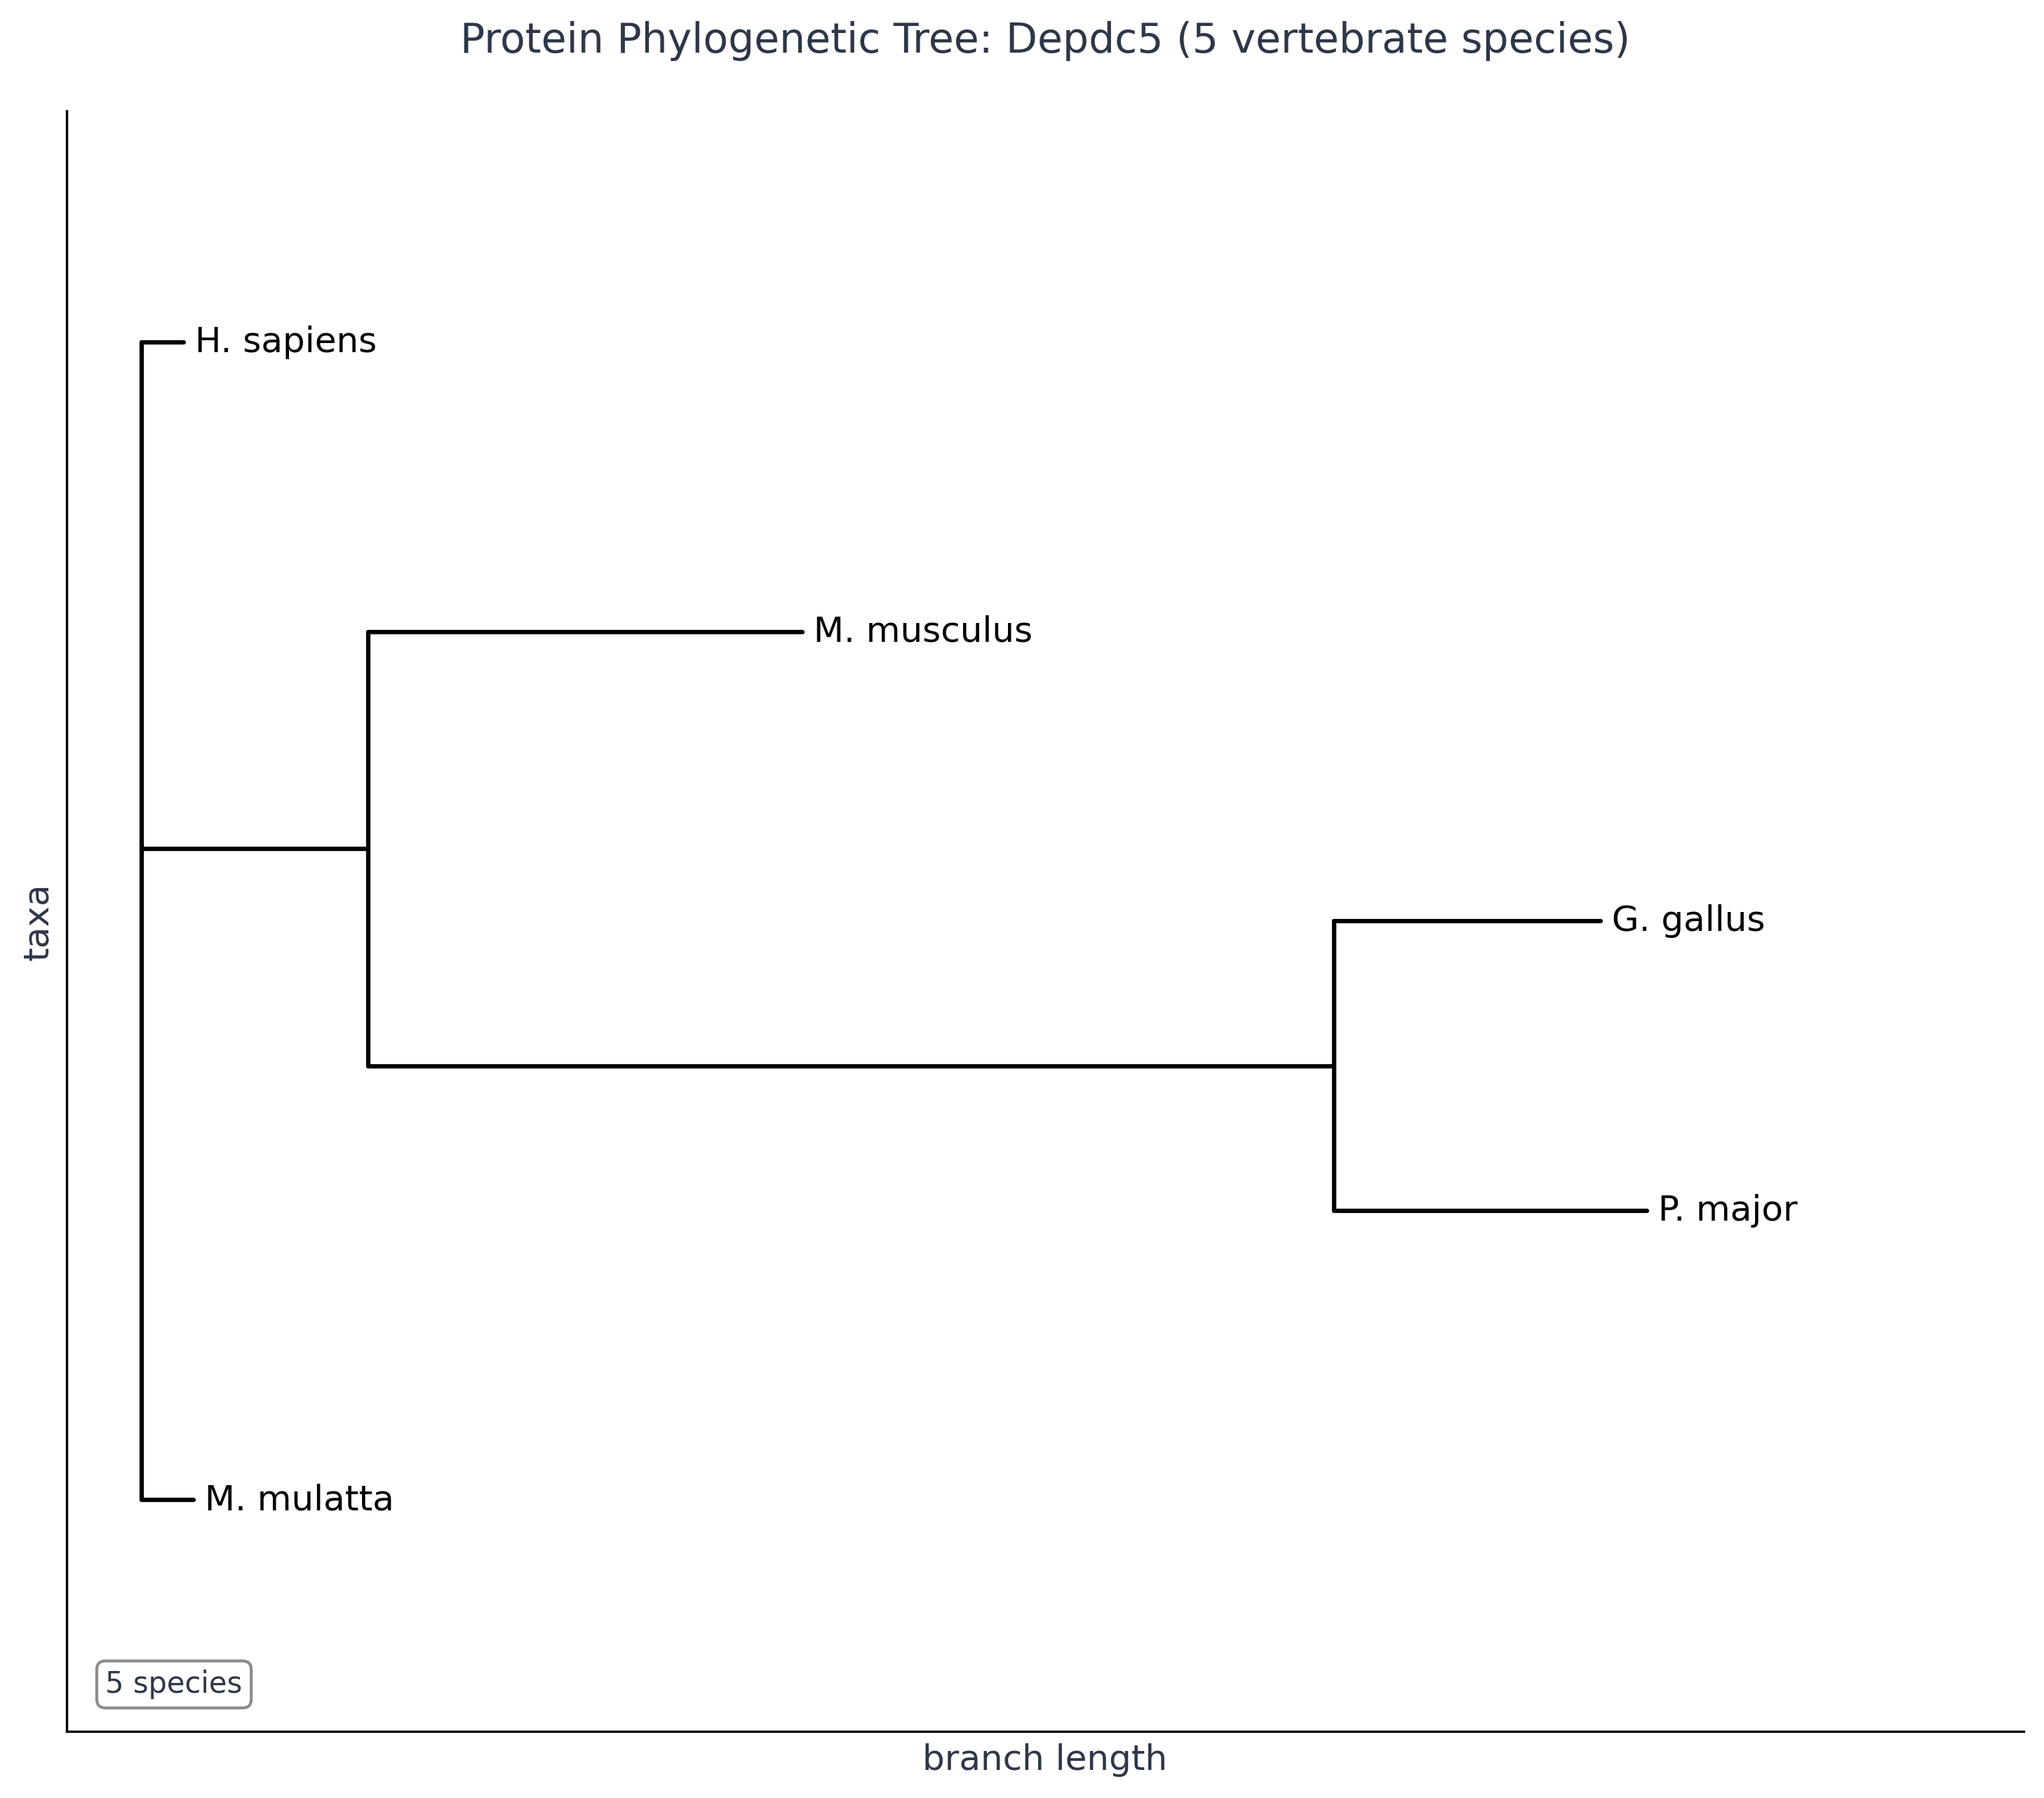
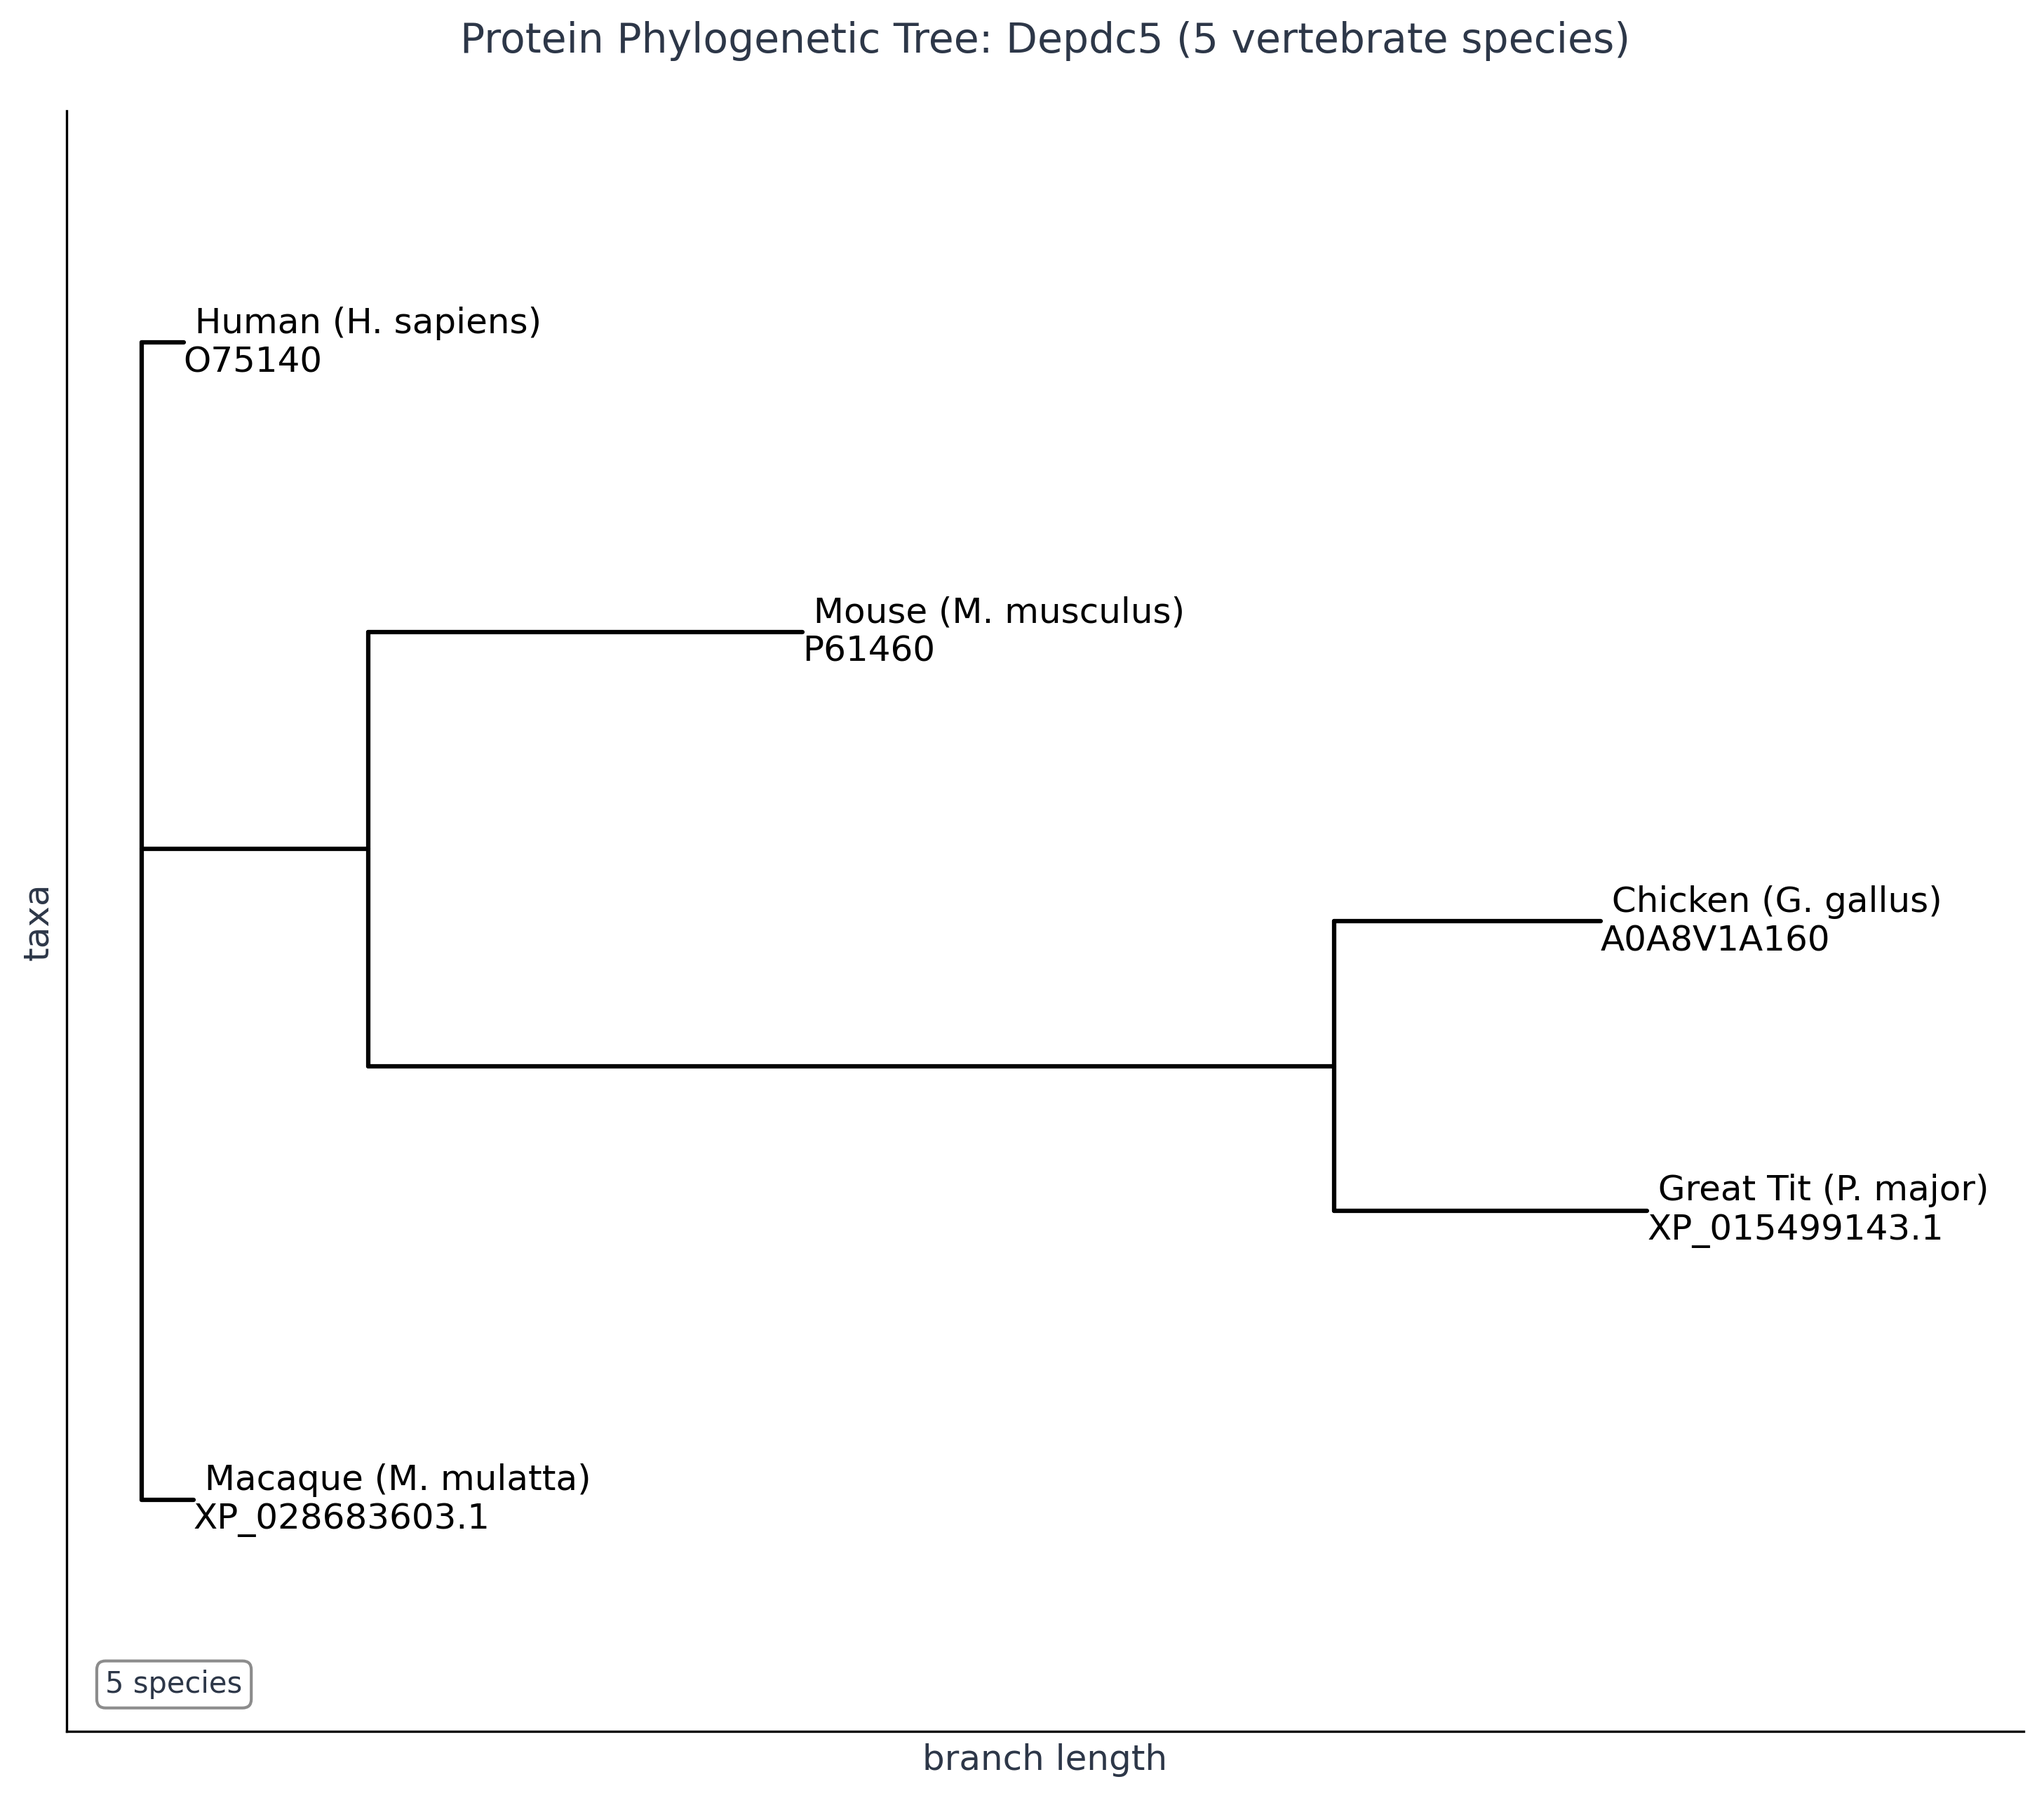
more descriptive tree

diff --git a/src/comparative_genomics_pipeline/visualization/scientific_plots.py b/src/comparative_genomics_pipeline/visualization/scientific_plots.py
@@ -234,7 +234,7 @@ class PhylogeneticPlotter(BasePlotter):
         return output_path
     
     def _format_species_name(self, clade):
-        """Format species names for display on tree."""
+        """Format species names for display on tree with common names and protein IDs."""
         if not clade.name:
             return ""
         
@@ -246,7 +246,7 @@ class PhylogeneticPlotter(BasePlotter):
             f"{path_config.DATA_INPUT_DIR}/genes_to_proteins.json"
         )
         
-        # Build dynamic mapping from protein IDs to species abbreviations
+        # Build dynamic mapping from protein IDs to species info
         name_map = {}
         for gene_name, orthologs in genes_to_proteins.items():
             for ortholog in orthologs:
@@ -255,15 +255,34 @@ class PhylogeneticPlotter(BasePlotter):
                 parts = species_full.split()
                 species_abbrev = f"{parts[0][0]}. {parts[1]}" if len(parts) >= 2 else species_full
                 
+                # Add common names mapping
+                common_names = {
+                    "H. sapiens": "Human",
+                    "M. musculus": "Mouse", 
+                    "M. mulatta": "Macaque",
+                    "G. gallus": "Chicken",
+                    "P. major": "Great Tit"
+                }
+                
+                common_name = common_names.get(species_abbrev, species_abbrev)
+                
                 if ortholog.get("uniprot_id"):
-                    name_map[ortholog["uniprot_id"]] = species_abbrev
+                    name_map[ortholog["uniprot_id"]] = {
+                        "species": species_abbrev,
+                        "common": common_name,
+                        "protein_id": ortholog["uniprot_id"]
+                    }
                 if ortholog.get("entrez_protein_id"):
-                    name_map[ortholog["entrez_protein_id"]] = species_abbrev
+                    name_map[ortholog["entrez_protein_id"]] = {
+                        "species": species_abbrev,
+                        "common": common_name,
+                        "protein_id": ortholog["entrez_protein_id"]
+                    }
         
-        # Extract species identifier from full name
-        for key, species in name_map.items():
+        # Extract species identifier and protein ID from full name
+        for key, info in name_map.items():
             if key in clade.name:
-                return species
+                return f"{info['common']} ({info['species']})\n{info['protein_id']}"
         
         return clade.name
     
